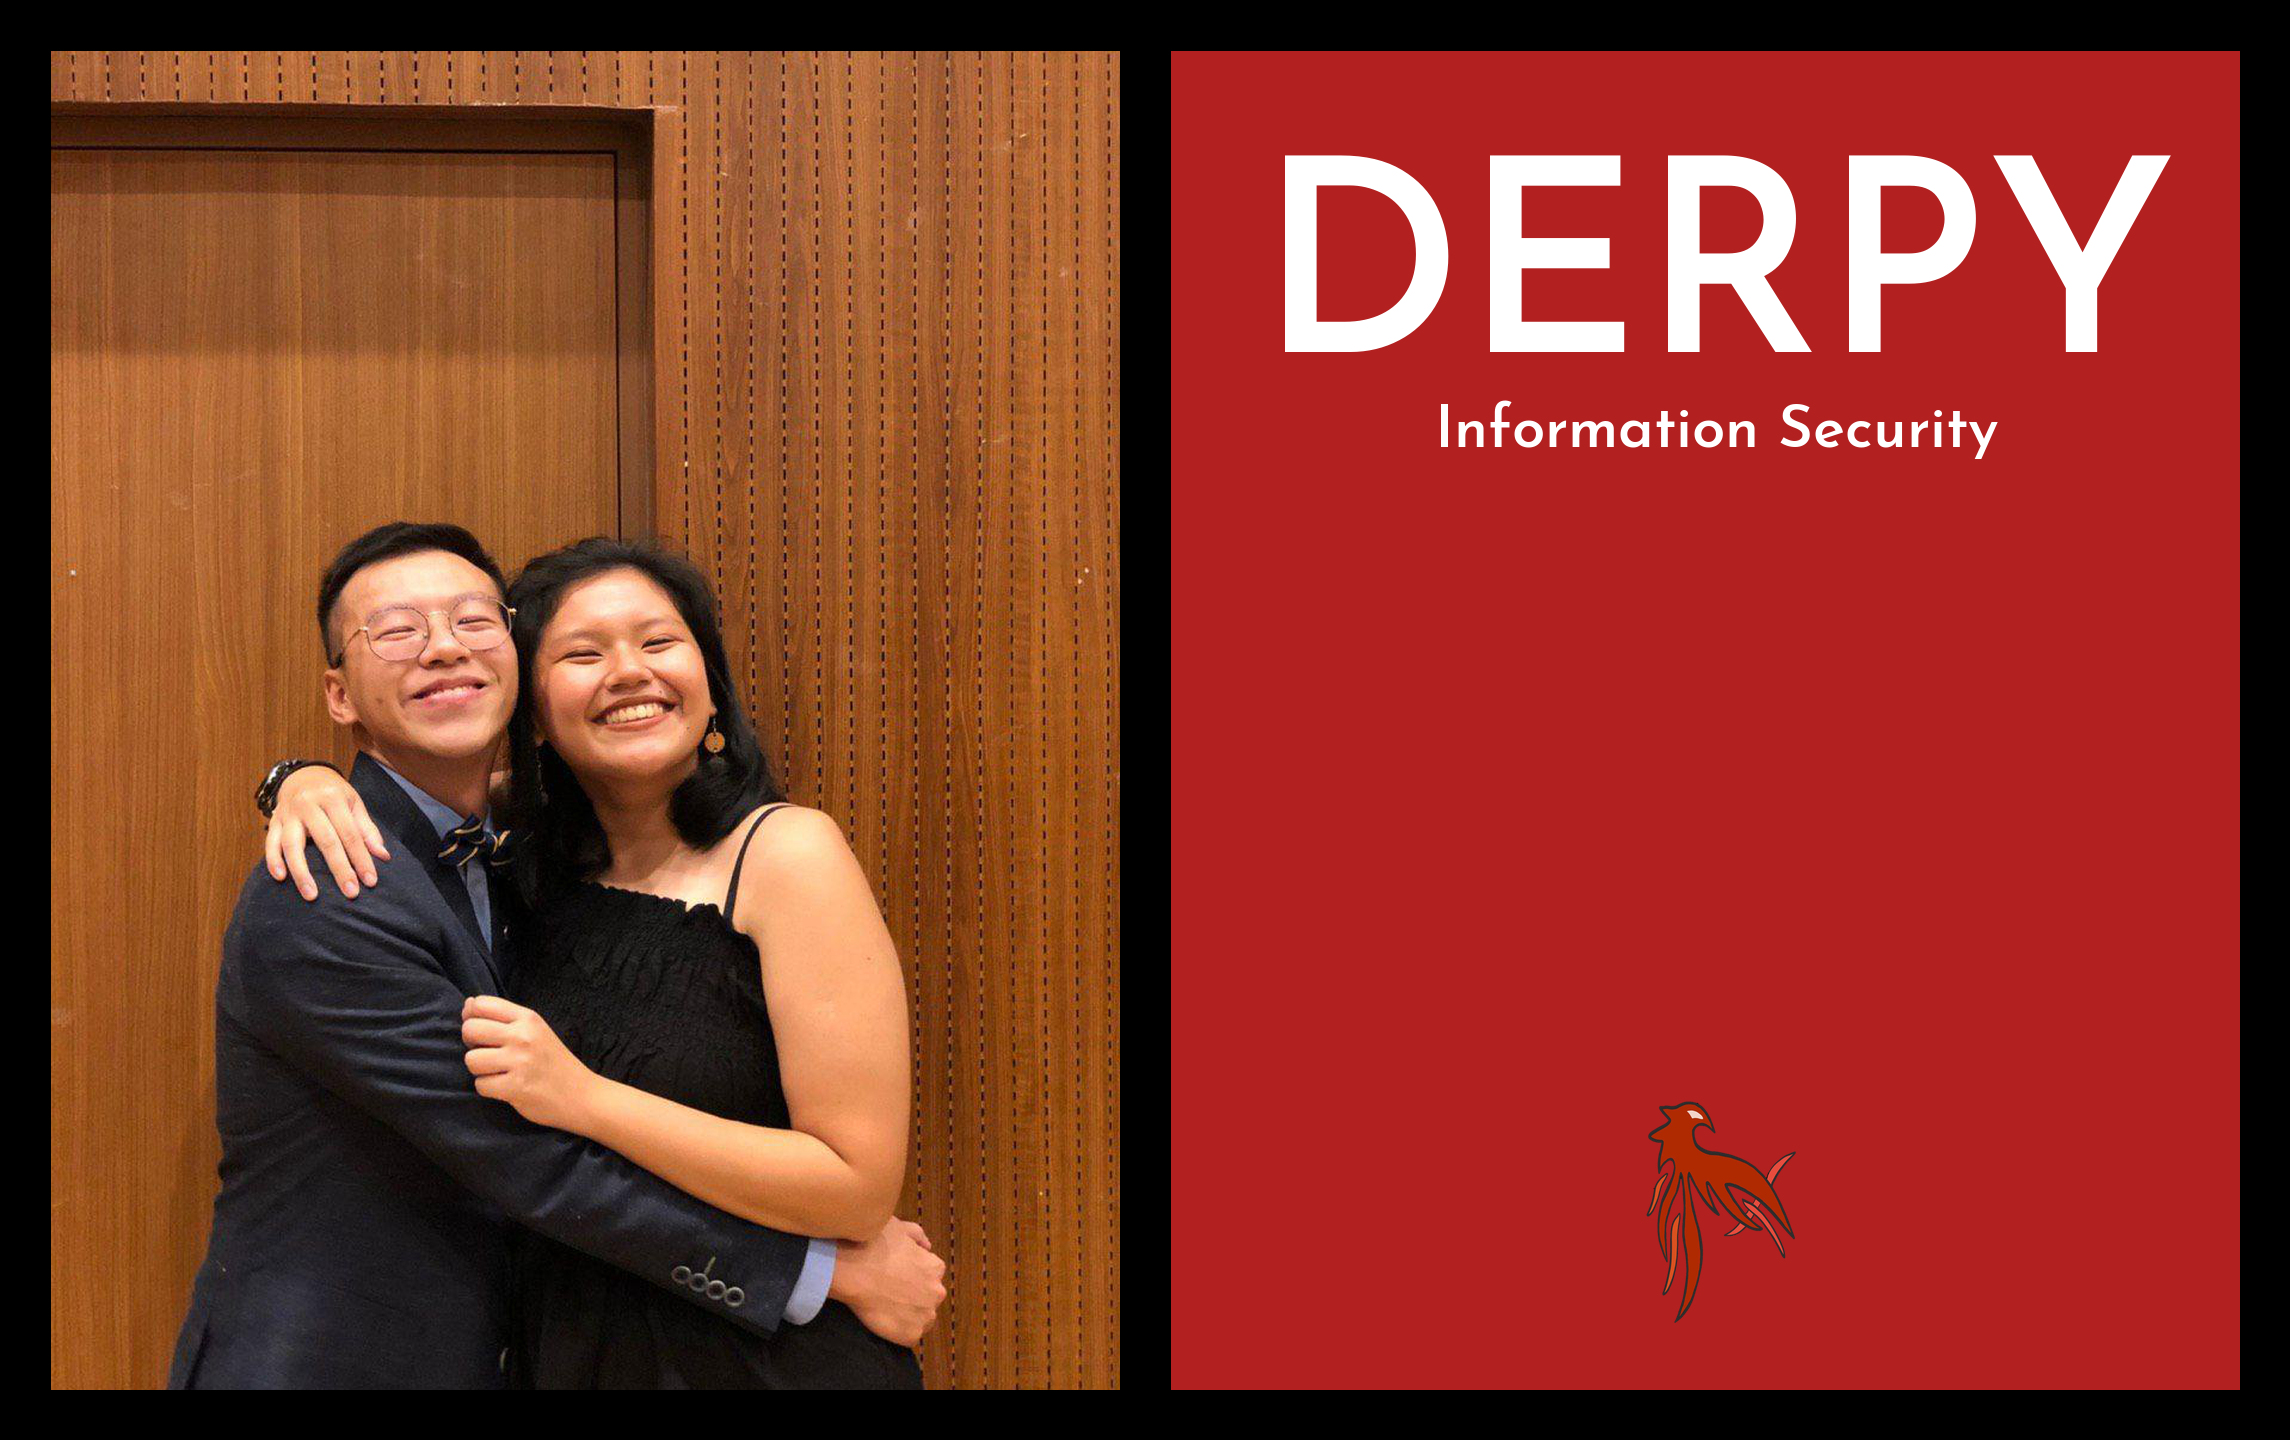
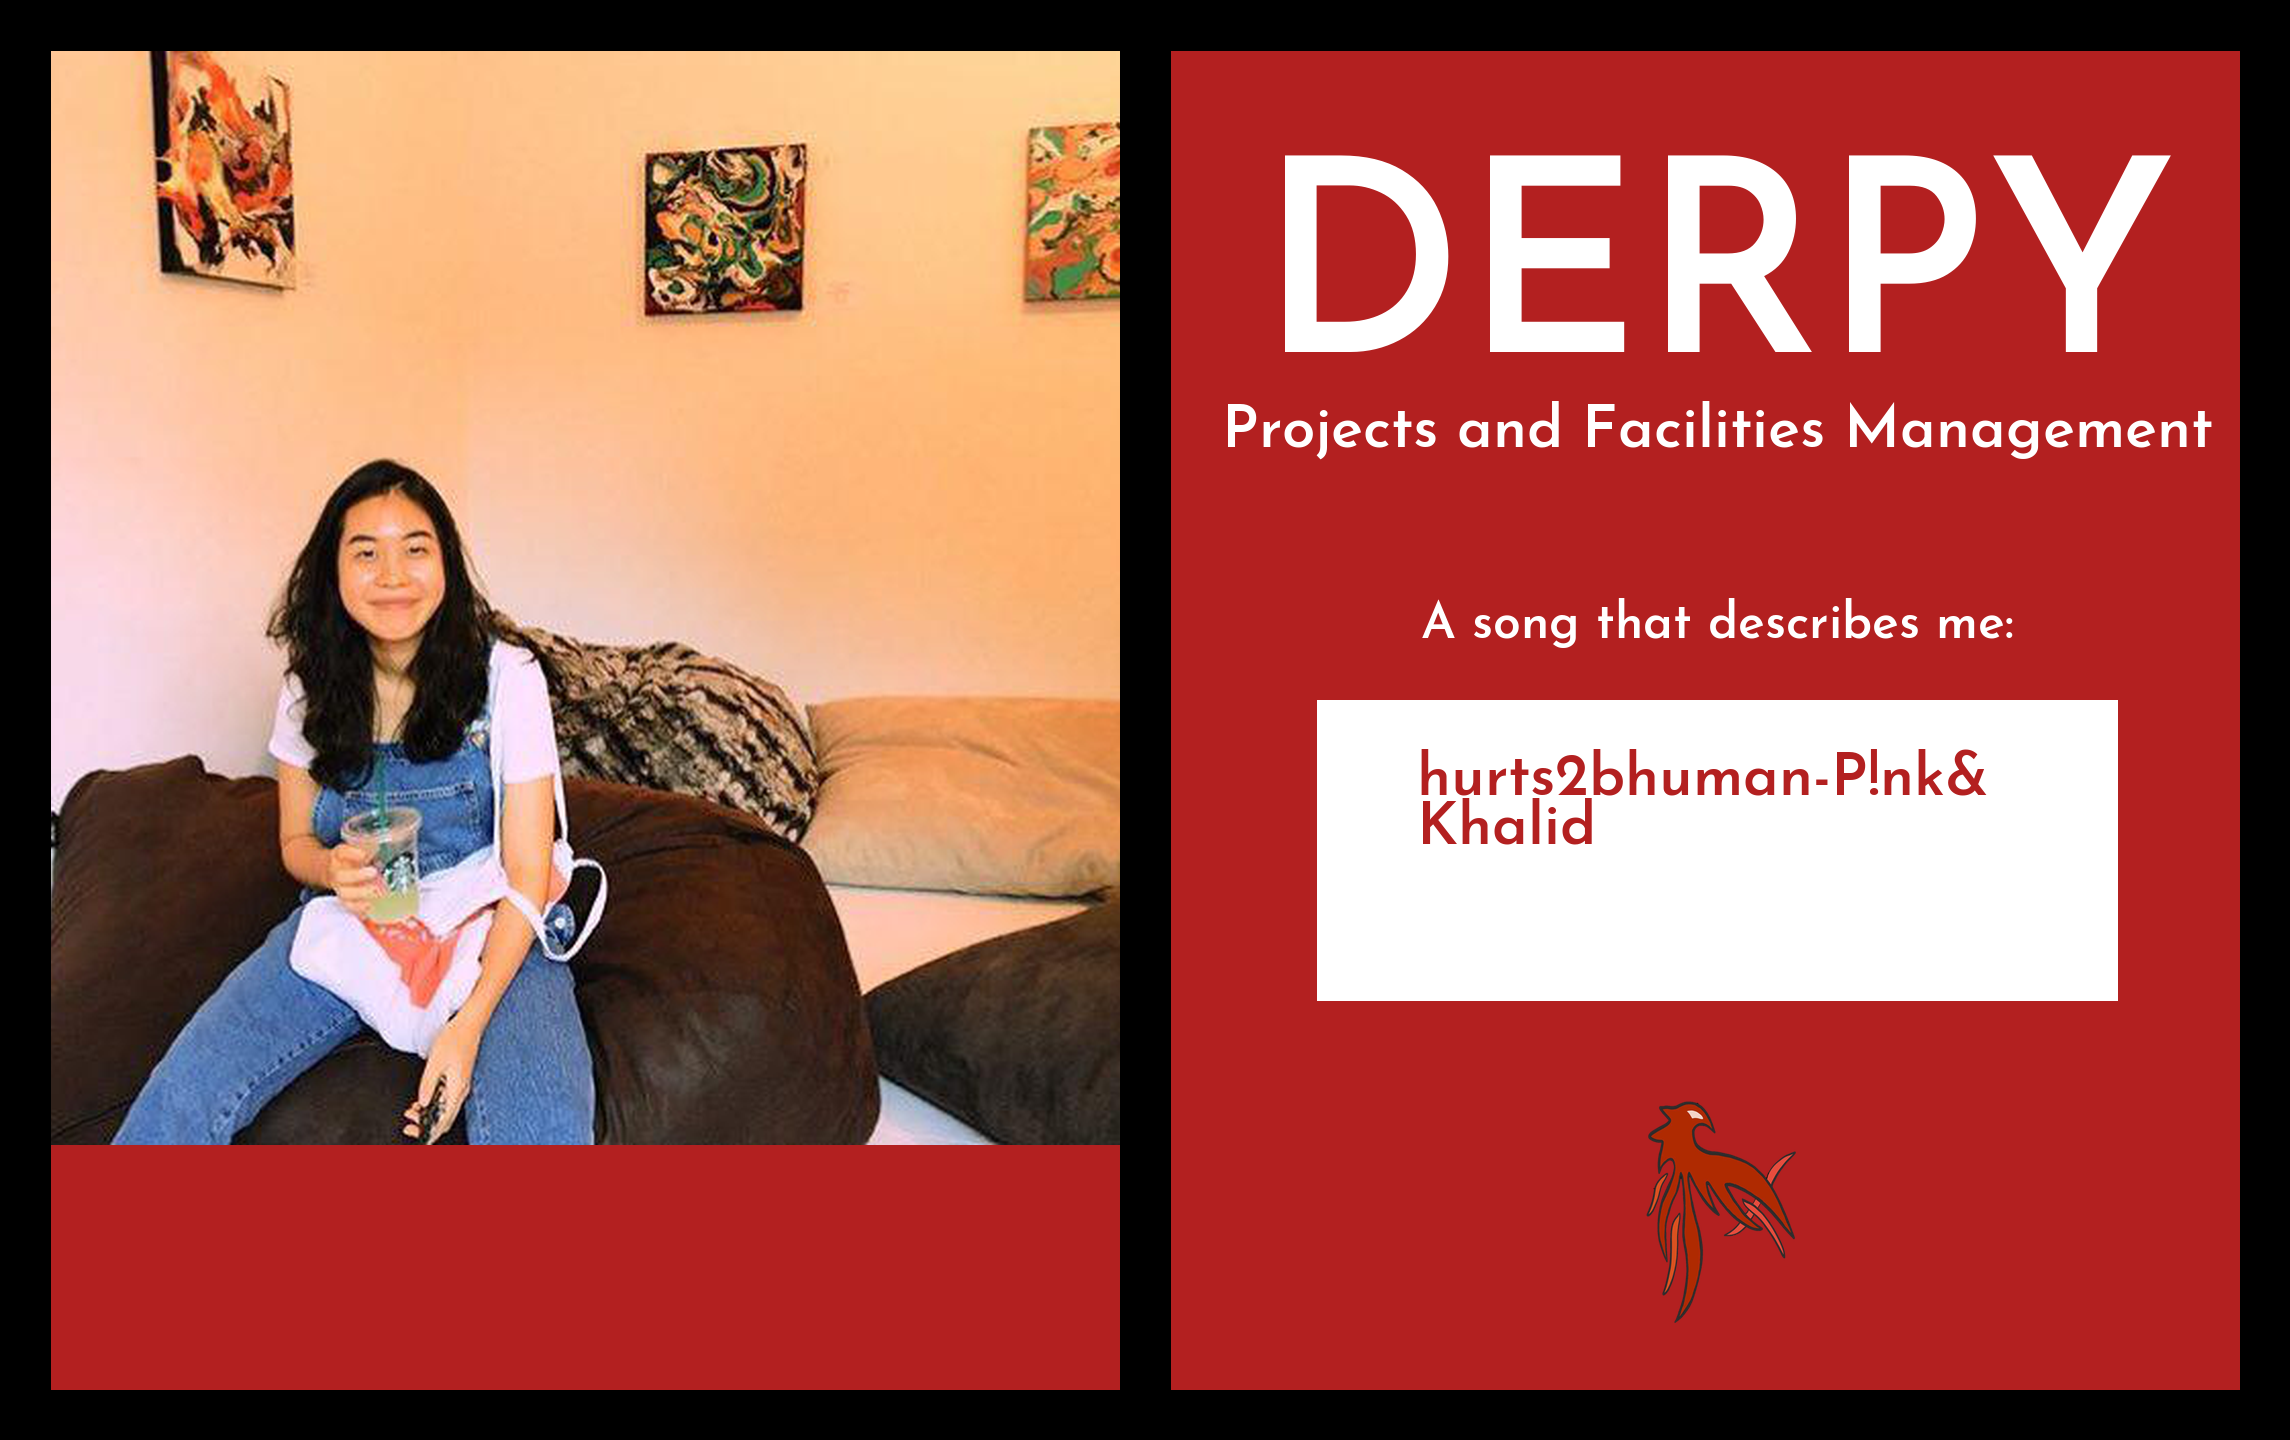
inserted openpyxl

diff --git a/doorcard_generator_2019_2.py b/doorcard_generator_2019_2.py
@@ -5,18 +5,34 @@ import os
 import math
 import glob
 import ntpath
+from openpyxl import load_workbook
+
+wb = load_workbook(filename = 'firebirds1920s1.xlsx')
+sheet = wb['Sheet1']
+rows = range(2, 83)
+cols = ['G', 'H', 'I']
+person_lists = []
+for r in rows:
+    person = []
+    for c in cols:
+        person.append(sheet[c + str(r)].value)
+    person_lists.append(person)
+
+print(person_lists)
+
 
 def get_name(path):
     head, tail = ntpath.split(path)
     return (tail or ntpath.basename(head))
 
-def generate_doorcard(src, bg_path, font_path):
+def generate_doorcard(src, name, major, song_text):
 
     bg = Image.new(mode = "RGB", size = (2290, 1440), color = (179, 32, 32))
+    font_path = curr_path + "/JosefinSans-SemiBold.ttf"
 
     fontsize = 160  # starting font size
     path, file_ext = os.path.splitext(src)
-    name = get_name(path).upper()
+    name = name.upper()
     img = Image.open(src).convert("RGBA")   
     name_font = ImageFont.truetype(font_path, fontsize)
     text_l, text_h = (name_font.getsize(name))
@@ -64,7 +80,6 @@ def generate_doorcard(src, bg_path, font_path):
     d.text((text_w, text_h), name, (255,255,255), font=name_font)
 
     major_font = ImageFont.truetype(font_path, 60)
-    major = "Information Security"
     major_w = math.floor(centre - major_font.getsize(major)[0] / 2)
     major_h = text_h + name_font.getsize(name)[1] + 50
     d.text((major_w, major_h), major, (255,255,255), font=major_font)
@@ -91,7 +106,6 @@ def generate_doorcard(src, bg_path, font_path):
 
     WHITE = (255,255,255)
 
-    song_text = "dhfapdfioajfijadoifjoiadfijpadfjadpfjaiofsdojfpafdspji"
     song_font = ImageFont.truetype(font_path, 60)
     song_x = centre - math.floor(song_font.getsize(song_text)[0] / 2)
     song_y = 750
@@ -108,16 +122,16 @@ def generate_doorcard(src, bg_path, font_path):
         line_text = ""
         fontsize = 60
         font = ImageFont.truetype(font_path, fontsize)
-        for char in text:
+        for word in text.split(" "):
             print(line_text)
-            print(font.getsize(line_text + char)[0], " ", width)
-            if font.getsize(line_text + char)[0] > width: #correct later
+            print(font.getsize(line_text + word)[0], " ", width)
+            if font.getsize(line_text + word)[0] > width: #correct later
                 line_text += '\n'
                 lines.append(line_text)
-                line_text = char
+                line_text = word
                 
             else:
-                line_text += char
+                line_text += word
         lines.append(line_text)
         return ''.join(lines)
     
@@ -141,13 +155,15 @@ os.chdir("input")
 src_array = os.listdir()
 
 bg_path = curr_path + "/bg2.png"
-print(bg_path)
-font_path = curr_path + "/JosefinSans-SemiBold.ttf"
 
 # src_array = [src_array[-1]] #! DELETE LATER
 
-for f in src_array:
-    generate_doorcard(f, bg_path, font_path)
+# get list of [src, name, song_text]
+# person_lists = [[src_array[0], "Derpy", "Projects and Facilities Management", "hurts 2b human - P!nk & Khalid"]]
+
+# def generate_doorcard(src, name, major, song_text):
+# for person in person_lists:
+#     generate_doorcard(*person)
 
 # generate_doorcard("C:\\Users\\derpy\\Pictures\\doorcard_pics\\Wen Cong.jpg")
 
